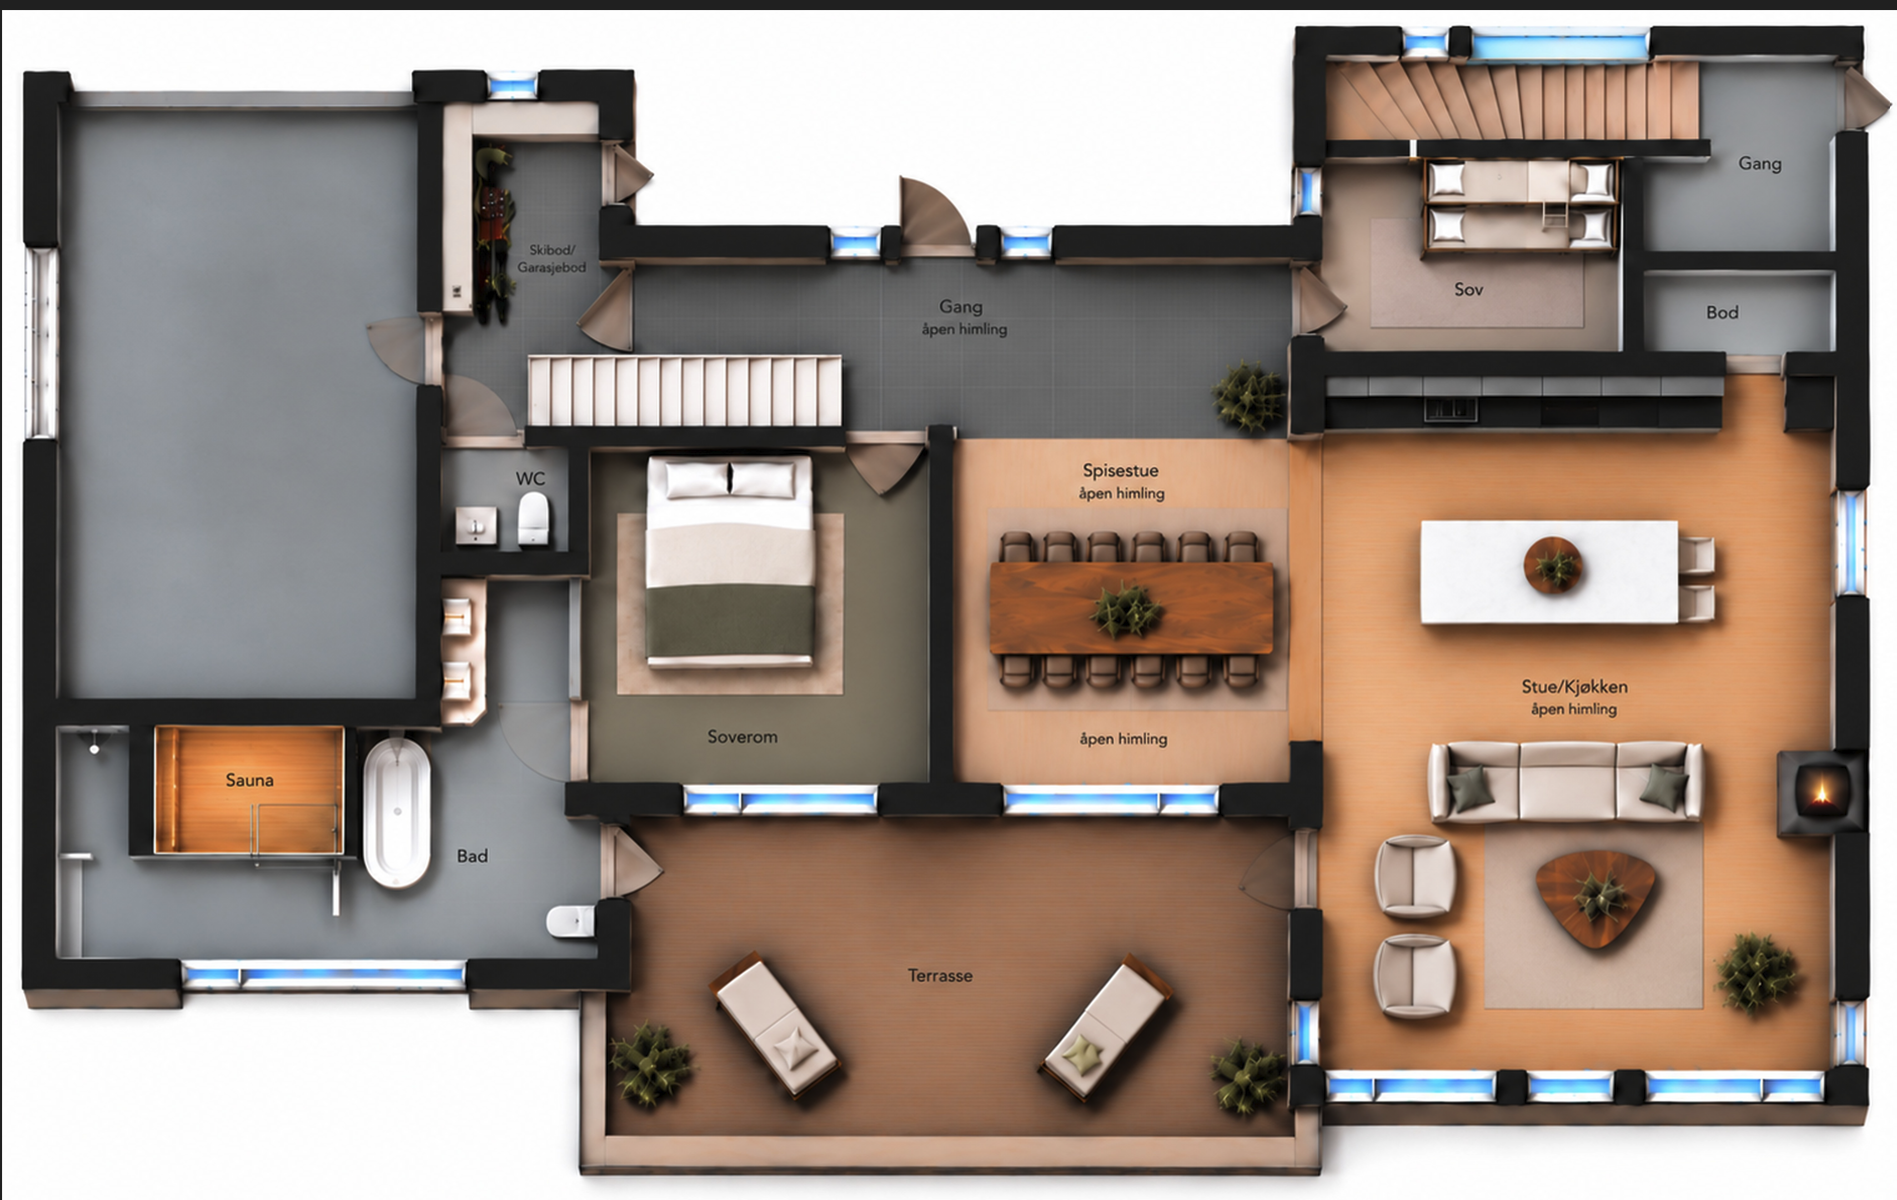
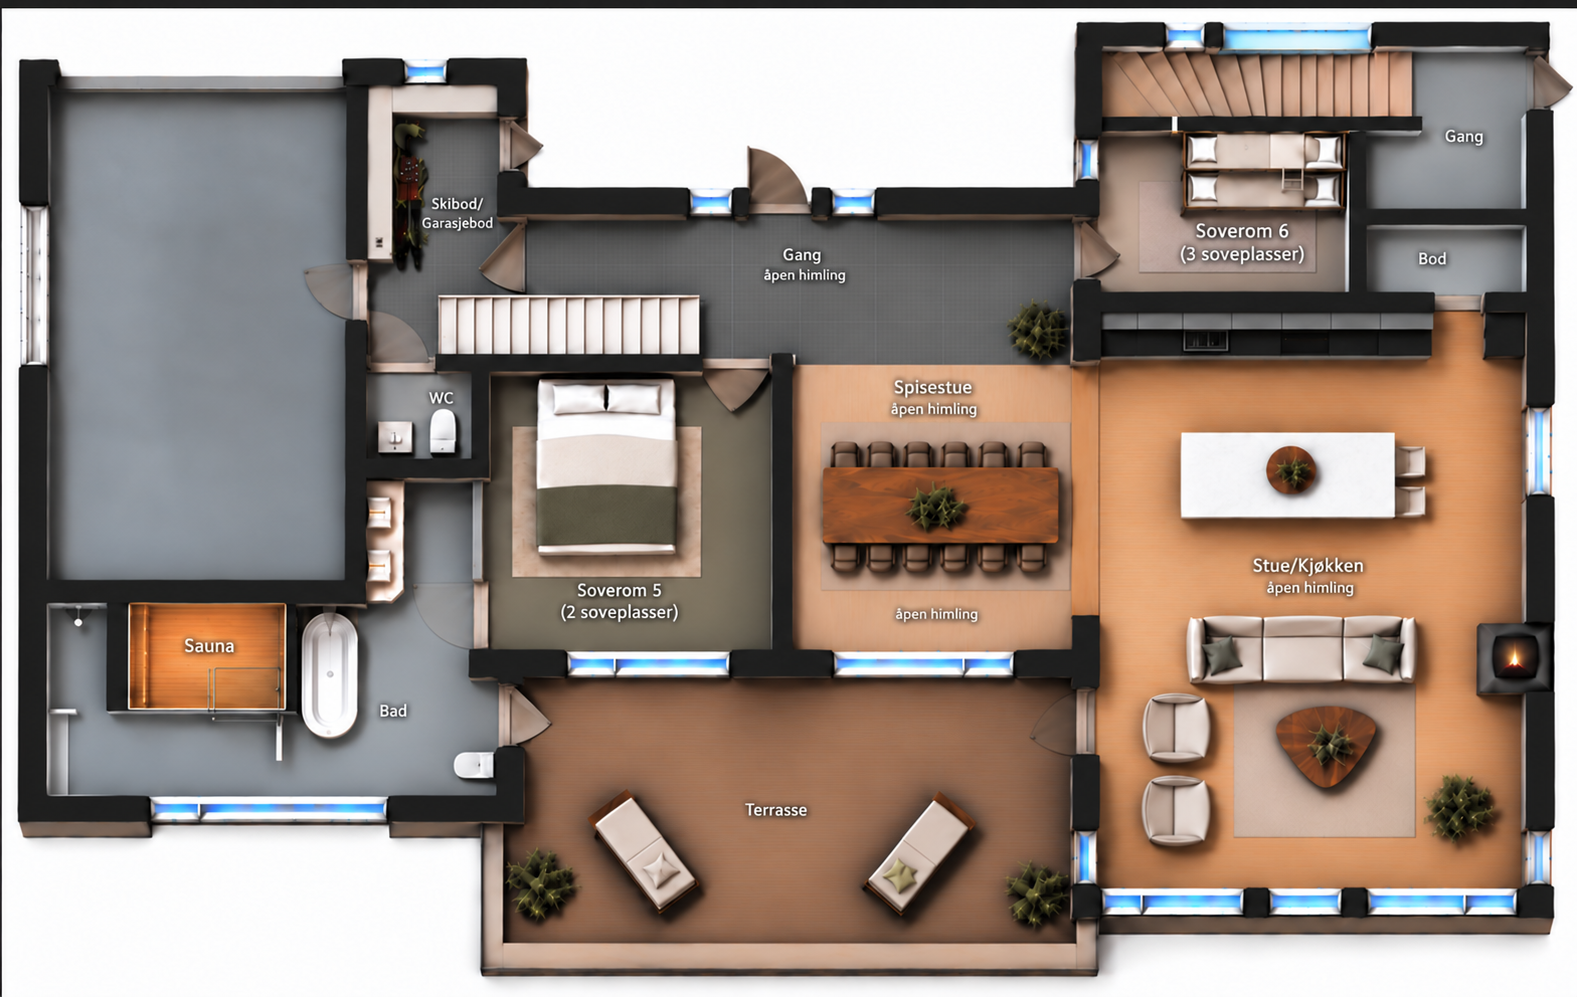
Update floor plan labels and shorten lower-floor table to 26 seats

diff --git a/docs/floor-plans.md b/docs/floor-plans.md
@@ -1,5 +1,50 @@
 # Three floor plans
 
+## Shorter lower-floor table with 26 seats, 29 October 2026
+
+Built-in imagegen updated `public/images/floor-plan-lower.png` from the owner's
+reference `codex-clipboard-e673bf30-181a-4fa2-b675-c32e0b086782.png`.
+The table is shortened at its kitchen end, with more clearance to the island.
+The final image has 12 chairs on each long side and one on each short end (26).
+Visual inspection and raw pixel sampling found 12 separate white chair groups
+on both sides. Two rejected drafts had 13 and 11 chairs per side; neither is used.
+The prior 28-seat source instructions below are historical and superseded.
+
+Initial edit prompt:
+
+Use case: precise-object-edit. IMAGE1 is the complete current lower-floor plan edit target. IMAGE2 is owner's circled table reference only. Change ONLY the dining table and its chairs in the large RIGHT room. Required EXACT chair count: TWELVE separate countable chairs along LEFT long side, TWELVE along RIGHT long side, ONE at TOP short end facing kitchen, ONE at BOTTOM short end facing windows = EXACTLY TWENTY SIX TOTAL. No extra chairs or stools. Shorten the table ONLY FROM THE TOP / KITCHEN-ISLAND SIDE so the top end moves DOWNWARD, leaving visibly MORE OPEN FLOOR GAP between island and dining table. Keep table centerline and width unchanged, and keep its BOTTOM / WINDOW-SIDE end at its existing position. Keep chair size consistent, remove surplus chairs, distribute exactly12 each side at sensible even spacing; do not squeeze more chairs into unchanged length. Keep rug appropriately aligned with shorter table, plant centerpiece remains. Do not move the kitchen island or kitchen cabinetry. Absolutely preserve every other part of full plan, walls, staircases, windows, door swings, fireplace, beds and all room labels/sleep capacities exactly: Soverom1(3soveplasser),2(3),3(2),4(4),5(4), Bod by middle-left stair, Bad bathrooms, Sauna, Toalett, Gang, Teknisk rom, Terrasse. Keep current white label typography and all natural-material colors. Same full framing/scale, no cropping, no added annotation or red circle. Before finalizing count all26 chairs:12left+12right+1top+1bottom. Table's top end must be farther from kitchen island than before; bottom end remains anchored.
+
+Final count correction prompt:
+
+EXACT COUNT CORRECTION. This current supplied draft has ELEVEN sidechairs on the left and ELEVEN on the right, plus the two endchairs =24. Target is26. ADD EXACTLY ONE CHAIR TO EACH LONG SIDE, directly ABOVE the current first chair on each side. Existing11sidechairs on each side must remain fixed. Add the single new left chair centered approximately x1280,y404 and the single new right chair centered approximately x1380,y404, leaving all existing sidechairs at y425,446,468,489,510,531,552,574,596,619,642 untouched. Thus final each side has12centers:404,425,446,468,489,510,531,552,574,596,619,642. Extend the TABLETOP TOP edge upward about22pixels (from y415 to y393) to serve just these two new chairs. Move the single TOP ENDCHAIR upward22pixels to remain at new table head. Keep bottom table edge and bottom endchair fixed. Final exact count:12left+12right+1top+1bottom=26. Do not add2chairs per side or remove any existing chair. Do not redistribute/redraw current11chairs, only append one above. This still leaves much more kitchen-island clearance than the original long table. Preserve ALL other full-plan content and dimensions, every label and sleeping capacity, rooms, kitchen island, walls, furniture, windows, materials. No crop or annotations. Count carefully: there must be TWELVE separate white chairs on EACH side of table, not11 and not13.
+
+## Sleeping capacities and matching labels, 29 October 2026
+
+Updated all three plan PNGs with built-in imagegen. The small stair-side wall
+in the Hems is removed, leaving the left stair entrance open. Main-floor rooms
+are Soverom 5 (2 soveplasser) and Soverom 6 (3 soveplasser). Lower-floor rooms
+1–5 respectively show 3, 3, 2, 4 and 4 soveplasser. The small room beside the
+middle-left stair is now Bod; actual bathroom labels remain Bad. Main/lower
+descriptions use clear white sans-serif lettering with the loft as size/style
+reference. Owner references are `codex-clipboard-b8a8f6ee-a879-4a90-ae86-06610a6e83d1.png`,
+`codex-clipboard-4488021b-b508-4c32-bad3-99a1d6366b20.png` and
+`codex-clipboard-f350ad2d-4698-43d7-bdd2-ebfd061df645.png`.
+
+Saved assets: `public/images/floor-plan-main.png`,
+`public/images/floor-plan-lower.png`, `public/images/floor-plan-loft.png`.
+
+Final hems wall-removal prompt:
+
+Precise object removal edit. IMAGE1 is full current floor plan. IMAGE2 is owner reference: the RED CIRCLE marks the SHORT VERTICAL CHARCOAL WALL IMMEDIATELY LEFT OF THE SMALL STAIR IN THE ISOLATED UPPER-RIGHT HEMS. Remove that wall completely, from its top end to bottom junction (approximately x1298–1330, y277–354 in IMAGE1). Fill its former footprint with matching warm timber floor so the horizontally running small staircase opens freely at its LEFT end directly into the Hems. No post or dark wall remnant should block that left stair entrance. Keep the horizontal bottom exterior wall below the room; remove ONLY the short vertical internal stair-side obstruction. Keep all staircase treads VERTICAL on the page, same footprint, direction, count and material as now. Keep all other details exactly unchanged: isolated room outer top/left/right/bottom walls, Hems label, beanbags and rug; the entire main left connected plan, long stair and glass railing, all numbered bedroom and alcove labels, windows, furniture, doors, bathroom, floors. Same full image/canvas, no crop or zoom, no red marks. Only remove the circled small vertical stair-side wall and fill its footprint with wood floor.
+
+Final main-floor labels prompt:
+
+Use case: text-localization / precise typography edit. IMAGE1 is the MAIN FLOOR plan edit target. IMAGE2 is the LOFT PLAN TYPOGRAPHY REFERENCE ONLY; never copy any room geometry from it. IMAGE3 is owner red numbered location reference for the two main-floor bedrooms. Make TEXT-ONLY changes to IMAGE1. Replace bedroom label in large double-bed room at center-left marked5 with exact two-line 'Soverom 5' / '(2 soveplasser)'. Replace small bedroom label 'Sov' in top-right bunk room marked6 with exact two-line 'Soverom 6' / '(3 soveplasser)'. All other existing descriptions must remain verbatim but use the SAME clear sans-serif type and SAME RELATIVE VISIBLE FONT SIZE as room labels in IMAGE2. Since IMAGE1 is wider, use about 30–33px letter height on its roughly1900px canvas, so text is same visible size when plans are displayed at equal page width. Use legible white lettering with restrained dark outline/shadow like IMAGE2. Apply consistently to Bad, Sauna, WC, Skibod/Garasjebod, Gang, Bod, Spisestue, Stue/Kjøkken, Terrasse and all 'åpen himling' labels. Keep existing text positioning within original rooms, wrapping into lines where needed; don't add duplicate/new labels. Preserve every existing non-bedroom wording, including all åpen himling annotations. Critical: preserve original complete building, furniture, room layout, all walls/door swings/windows, stairs, bed shapes/counts, sauna/bathrooms, kitchen, dining seats, terrace, colors, materials, image framing and scale EXACTLY. No repainting or redesign. Only room label replacements and matching existing label typography. No red annotations in output. Full complete image, no crop.
+
+Final lower-floor labels prompt:
+
+Use case: text-localization / typography only. IMAGE1 is the LOWER FLOOR plan edit target. IMAGE2 is owner circled location reference only. IMAGE3 is loft plan TYPOGRAPHY STYLE reference only, do not copy layout. Update only text on IMAGE1: 'Soverom 1' gets a second line '(3 soveplasser)'; 'Soverom 2' second line '(3 soveplasser)'; 'Soverom 3' second line '(2 soveplasser)'; 'Soverom 4' second line '(4 soveplasser)'; 'Soverom 5' second line '(4 soveplasser)'. In the SMALL ROOM UNDER/ADJACENT TO THE MIDDLE-LEFT STAIR marked circled red in IMAGE2, replace label 'Bad' with 'Bod'. This is the tiny room directly above the hall corridor near x405,y265 in IMAGE1, NOT the actual large bathroom beside sauna and NOT the upper-center bathroom. Keep the other Bad labels unchanged. Match ALL plan descriptions and room labels to the same clearly readable white sans-serif lettering with subtle dark outline/shadow as IMAGE3. On the1723px-wide target use about27–28px label lettering so visible size is equivalent to reference loft when both shown at same page width. Apply this consistently to all existing labels Teknisk rom, Soverom1–5, Bod (both existing top-right storage and newly renamed small room), Bad (actual bathrooms), Sauna, Toalett, Gang, Terrasse and added parenthetical counts. Use line breaks to fit text safely inside each original room, no overlaps over walls. Absolutely preserve all geometry, beds and furniture footprints/counts, walls, door swings, windows, stairs, fixtures, kitchen/island, fireplace, sauna, terrace, all28diningchairs and materials/colors exactly as IMAGE1. No new labels or rooms, no resize/crop/zoom, full complete canvas. Red circle is a guide only, never show it.
+
 ## Stair entrance and hems direction, 29 October 2026
 
 Built-in imagegen updated `public/images/floor-plan-loft.png` using owner marks
